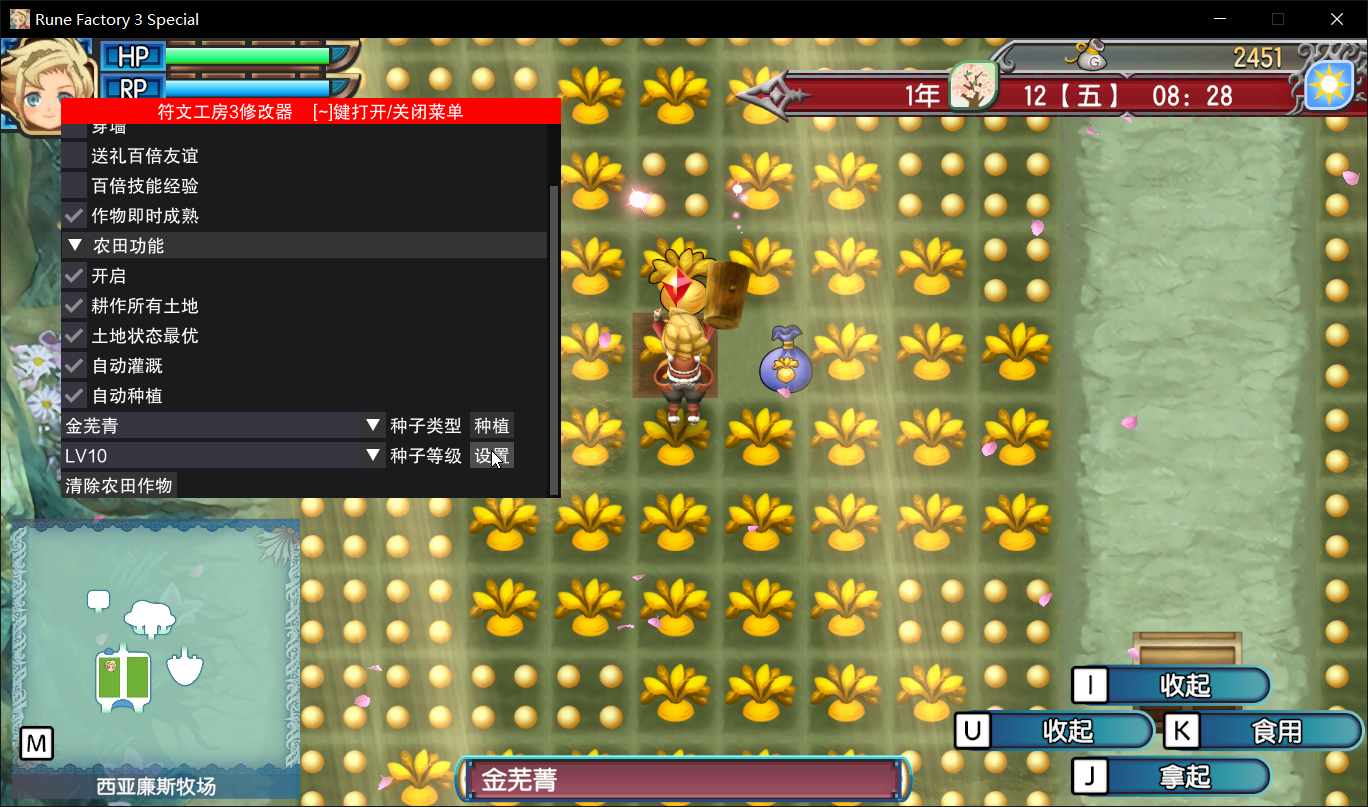
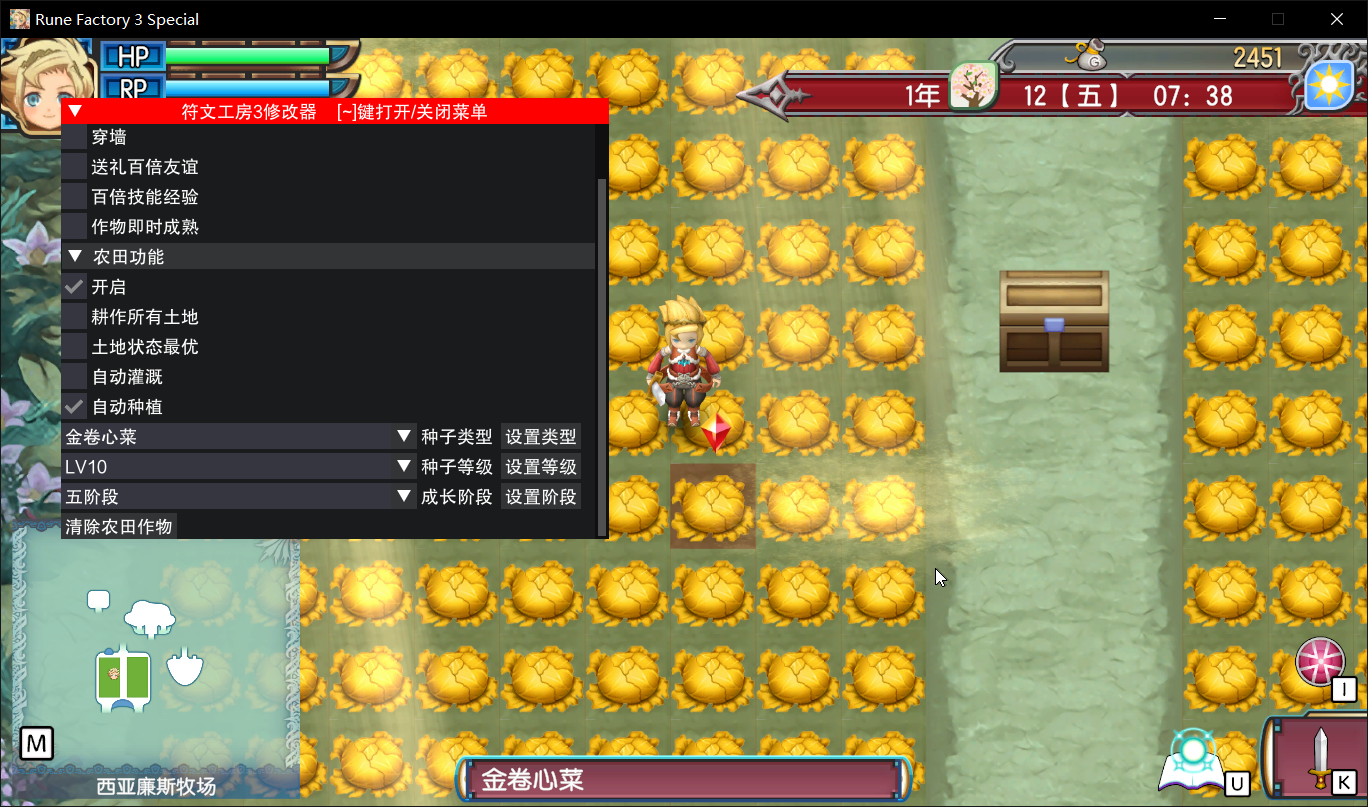
增加新功能
修改作物成长阶段

diff --git a/src/gui.rs b/src/gui.rs
@@ -2,17 +2,32 @@ use hudhook::{imgui, ImguiRenderLoop, TextureLoader};
 
 use crate::{util::is_key_down_once, var};
 
+static mut CROP_TYPE_SELECTED: var::CropType = var::CropType::无;
 static mut CROP_TYPE_LIST: Vec<var::CropType> = Vec::new();
 
-static mut CROP_TYPE_SELECTED: var::CropType = var::CropType::无;
-
+static mut CROP_LEVEL_SELECTED: var::CropLevel = var::CropLevel::LV1;
 static mut CROP_LEVEL_LIST: Vec<var::CropLevel> = Vec::new();
 
-static mut CROP_LEVEL_SELECTED: var::CropLevel = var::CropLevel::LV1;
+static mut CROP_GROWTH_STAGE_SELECTED: var::CropGrowthStage = var::CropGrowthStage::一阶段;
+static mut CROP_GROWTH_STAGE_LIST: Vec<var::CropGrowthStage> = Vec::new();
 
 static ONCE: std::sync::Once = std::sync::Once::new();
 
-pub(crate) unsafe fn draw_ui_body(ui: &hudhook::imgui::Ui) {
+pub(crate) unsafe fn on_frame(ui: &hudhook::imgui::Ui) {
+    ONCE.call_once(|| {
+        for v in <var::CropType as strum::IntoEnumIterator>::iter() {
+            CROP_TYPE_LIST.push(v)
+        }
+
+        for v in <var::CropLevel as strum::IntoEnumIterator>::iter() {
+            CROP_LEVEL_LIST.push(v)
+        }
+
+        for v in <var::CropGrowthStage as strum::IntoEnumIterator>::iter() {
+            CROP_GROWTH_STAGE_LIST.push(v)
+        }
+    });
+
     if ui.collapsing_header("功能", imgui::TreeNodeFlags::empty()) {
         if ui.checkbox(
             "钓鱼自动提竿",
@@ -142,23 +157,9 @@ pub(crate) unsafe fn draw_ui_body(ui: &hudhook::imgui::Ui) {
                 }
             }
 
-            ONCE.call_once(|| {
-                for v in <var::CropType as strum::IntoEnumIterator>::iter() {
-                    CROP_TYPE_LIST.push(v)
-                }
-
-                for v in <var::CropLevel as strum::IntoEnumIterator>::iter() {
-                    CROP_LEVEL_LIST.push(v)
-                }
-            });
-
             if var::farm::plant_plots::TOGGLE {
                 if let Some(cb) = ui.begin_combo("种子类型", CROP_TYPE_SELECTED.to_string()) {
-                    for current in ::core::mem::transmute::<
-                        *const Vec<var::CropType>,
-                        &Vec<var::CropType>,
-                    >(std::ptr::addr_of!(CROP_TYPE_LIST))
-                    {
+                    for current in &*::core::ptr::addr_of_mut!(CROP_TYPE_LIST) {
                         if CROP_TYPE_SELECTED == *current {
                             ui.set_item_default_focus();
                         }
@@ -175,17 +176,12 @@ pub(crate) unsafe fn draw_ui_body(ui: &hudhook::imgui::Ui) {
                 }
 
                 ui.same_line();
-                if ui.button("种植") {
-                    *(std::ptr::addr_of_mut!(var::farm::plant_plots::CROP_ID) as *mut i64
-                        as *mut u8) = CROP_TYPE_SELECTED as u8 * 2;
+                if ui.button("设置类型") {
+                    var::farm::plant_plots::CROP_PROP.set_crop_type(CROP_TYPE_SELECTED);
                 }
 
                 if let Some(cb) = ui.begin_combo("种子等级", CROP_LEVEL_SELECTED.to_string()) {
-                    for current in ::core::mem::transmute::<
-                        *const Vec<var::CropLevel>,
-                        &Vec<var::CropLevel>,
-                    >(std::ptr::addr_of!(CROP_LEVEL_LIST))
-                    {
+                    for current in &*::core::ptr::addr_of!(CROP_LEVEL_LIST) {
                         if CROP_LEVEL_SELECTED == *current {
                             ui.set_item_default_focus();
                         }
@@ -202,31 +198,37 @@ pub(crate) unsafe fn draw_ui_body(ui: &hudhook::imgui::Ui) {
                 }
 
                 ui.same_line();
-                if ui.button("设置") {
-                    let ptr = ::core::ptr::addr_of!(var::farm::plant_plots::CROP_ID)
-                        .byte_add(1)
-                        .cast_mut()
-                        .cast::<u8>();
+                if ui.button("设置等级") {
+                    var::farm::plant_plots::CROP_PROP.set_crop_level(CROP_LEVEL_SELECTED);
+                }
 
-                    *ptr &= 0xF0;
-                    *ptr |= CROP_LEVEL_SELECTED as u8;
+                if let Some(cb) = ui.begin_combo("成长阶段", CROP_GROWTH_STAGE_SELECTED.to_string())
+                {
+                    for current in &*::core::ptr::addr_of_mut!(CROP_GROWTH_STAGE_LIST) {
+                        if CROP_GROWTH_STAGE_SELECTED == *current {
+                            ui.set_item_default_focus();
+                        }
+
+                        if ui
+                            .selectable_config(current.to_string())
+                            .selected(CROP_GROWTH_STAGE_SELECTED == *current)
+                            .build()
+                        {
+                            CROP_GROWTH_STAGE_SELECTED = *current;
+                        }
+                    }
+                    cb.end();
+                }
+
+                ui.same_line();
+                if ui.button("设置阶段") {
+                    var::farm::plant_plots::CROP_PROP
+                        .set_crop_growth_stage(CROP_GROWTH_STAGE_SELECTED);
                 }
 
                 if ui.button("清除农田作物") {
-                    CROP_TYPE_SELECTED = var::CropType::无;
-
-                    *(std::ptr::addr_of_mut!(var::farm::plant_plots::CROP_ID) as *mut i64
-                        as *mut u8) = CROP_TYPE_SELECTED as u8;
-
-                    CROP_LEVEL_SELECTED = var::CropLevel::LV1;
-
-                    let ptr = ::core::ptr::addr_of!(var::farm::plant_plots::CROP_ID)
-                        .byte_add(1)
-                        .cast_mut()
-                        .cast::<u8>();
-
-                    *ptr &= 0xF0;
-                    *ptr |= CROP_LEVEL_SELECTED as u8;
+                    var::farm::plant_plots::CROP_PROP.set_crop_type(var::CropType::无);
+                    var::farm::plant_plots::CROP_PROP.set_crop_level(var::CropLevel::LV1);
                 }
             }
         }
@@ -272,10 +274,10 @@ impl ImguiRenderLoop for MyRenderLoop {
                 .title_bar(true)
                 .size([500.0, 400.0], hudhook::imgui::Condition::FirstUseEver)
                 .resizable(true)
-                .collapsible(false)
+                .collapsible(true)
                 .movable(true)
                 .build(|| {
-                    draw_ui_body(ui);
+                    on_frame(ui);
                 });
         }
     }

diff --git a/src/var.rs b/src/var.rs
@@ -21,6 +21,7 @@ pub(crate) mod auto_press {
     // size 25
     pub(crate) const PAT: &str = "66 F7 D2 66 23 D0";
     pub(crate) static mut HOOK: crate::hook::Hook = unsafe { ::core::mem::zeroed() };
+    pub(crate) static mut AUTO_PRESS_MARK: i64 = 0;
 }
 
 pub(crate) mod walk_through_walls {
@@ -71,9 +72,39 @@ pub(crate) mod farm {
     }
 
     pub(crate) mod plant_plots {
+
         pub(crate) static mut MARK: i64 = 0;
         pub(crate) static mut TOGGLE: bool = false;
-        pub(crate) static mut CROP_ID: i64 = 0x105A;
+        pub(crate) static mut CROP_PROP: crate::var::CropProp = crate::var::CropProp {
+            ty: 0,
+            growth_stage_lv: 0x10,
+        };
+    }
+}
+
+#[derive(Debug, Clone, Copy, Default)]
+#[repr(C)]
+pub(crate) struct CropProp {
+    ty: u8,
+    growth_stage_lv: u8,
+}
+
+impl CropProp {
+    pub(crate) fn set_crop_type(&mut self, ct: CropType) {
+        self.ty = (ct as u8) << 1;
+    }
+
+    pub(crate) unsafe fn set_crop_growth_stage(&mut self, stage: CropGrowthStage) {
+        // let stage_lv_ptr = (self as *mut CropProp as *mut u8).byte_add(1);
+        // *stage_lv_ptr &= 0b0000_1111;
+        // *stage_lv_ptr |= (stage as u8) << 4;
+        self.growth_stage_lv &= 0b0000_1111;
+        self.growth_stage_lv |= (stage as u8) << 4;
+    }
+
+    pub(crate) fn set_crop_level(&mut self, level: CropLevel) {
+        self.growth_stage_lv &= 0b0111_0000;
+        self.growth_stage_lv |= level as u8;
     }
 }
 
@@ -114,7 +145,7 @@ pub(crate) enum CropType {
 
     水晶 = 20, // 可砸，出的不知道是不是buff
 
-    苹果 = 21, //  可砸，什么都不会出
+    // 苹果 = 21, //  可砸，什么都不会出
     // 苹果 = 22    同上
     // 苹果 = 23    同上
     草莓 = 24,     // Strawberry
@@ -178,13 +209,18 @@ pub(crate) enum CropType {
     strum_macros::EnumIter,
     strum_macros::Display,
 )]
-pub(crate) enum CropGrowthStage {
-    None = 0,
-    A = 1,
-    B = 2,
-    C = 3,
-    D = 4,
-    E = 5,
+
+pub(crate) enum CropLevel {
+    LV1 = 0,
+    LV2 = 1,
+    LV3 = 2,
+    LV4 = 3,
+    LV5 = 4,
+    LV6 = 5,
+    LV7 = 6,
+    LV8 = 7,
+    LV9 = 8,
+    LV10 = 9,
 }
 
 #[derive(
@@ -199,16 +235,11 @@ pub(crate) enum CropGrowthStage {
     strum_macros::EnumIter,
     strum_macros::Display,
 )]
-
-pub(crate) enum CropLevel {
-    LV1 = 0,
-    LV2 = 1,
-    LV3 = 2,
-    LV4 = 3,
-    LV5 = 4,
-    LV6 = 5,
-    LV7 = 6,
-    LV8 = 7,
-    LV9 = 8,
-    LV10 = 9,
+pub(crate) enum CropGrowthStage {
+    // 无 = 0,
+    一阶段 = 0x1,
+    二阶段 = 0x2,
+    三阶段 = 0x3,
+    四阶段 = 0x4,
+    五阶段 = 0x5,
 }

diff --git a/src/asm.rs b/src/asm.rs
@@ -1,9 +1,8 @@
 static mut SANDLL_ADDR_POINTER: *const i64 =
     unsafe { std::ptr::addr_of!(crate::var::SANDLL_ADDR) } as *const i64;
 
-static mut AUTO_PRESS_B_MARK: i64 = 0;
 static mut AUTO_PRESS_B_MARK_POINTER: *const i64 =
-    unsafe { std::ptr::addr_of!(AUTO_PRESS_B_MARK) } as *const i64;
+    unsafe { std::ptr::addr_of!(crate::var::auto_press::AUTO_PRESS_MARK) } as *const i64;
 
 static mut SOIL_QUALITY_MARK_POINTER: *const i64 =
     unsafe { std::ptr::addr_of!(crate::var::farm::soil_quality::MARK) } as *const i64;
@@ -17,8 +16,9 @@ static mut TILTT_PLOTS_MARK_POINTER: *const i64 =
 static mut PLANT_PLOTS_MARK_POINTER: *const i64 =
     unsafe { std::ptr::addr_of!(crate::var::farm::plant_plots::MARK) } as *const i64;
 
-static mut CROP_ID_POINTER: *const i64 =
-    unsafe { std::ptr::addr_of!(crate::var::farm::plant_plots::CROP_ID) } as *const i64;
+static mut CROP_PROP_POINTER: *const crate::var::CropProp =
+    unsafe { std::ptr::addr_of!(crate::var::farm::plant_plots::CROP_PROP) }
+        as *const crate::var::CropProp;
 
 #[allow(unused)]
 #[inline(never)]
@@ -271,7 +271,7 @@ pub(crate) unsafe extern "system" fn skill_exp_mul() {
 
 #[allow(unused)]
 #[inline(never)]
-pub(crate) unsafe extern "system" fn farm_manager() {
+pub(crate) unsafe extern "system" fn farm() {
     std::arch::asm!("push rax", options(nomem, nostack));
     std::arch::asm!("push r11", options(nomem, nostack));
 
@@ -331,7 +331,7 @@ pub(crate) unsafe extern "system" fn farm_manager() {
         in("r12") WATERING_PLOTS_MARK_POINTER,
         in("r13") TILTT_PLOTS_MARK_POINTER,
         in("r14") PLANT_PLOTS_MARK_POINTER,
-        in("r15") CROP_ID_POINTER,
+        in("r15") CROP_PROP_POINTER,
         options(nostack,nomem)
     );
 

diff --git a/src/hook.rs b/src/hook.rs
@@ -70,27 +70,23 @@ impl Hook {
     }
 
     pub(crate) unsafe fn create_hook(&self) -> &Self {
-        let status = minhook_raw::create_hook(
+        minhook_raw::create_hook(
             self.target_addr,
             self.detour_fn_addr,
             ::core::ptr::null_mut(),
         );
 
-        println!("create_hook: {}", status);
-
         self
     }
 
     pub(crate) fn enable(&mut self) {
-        let status = minhook_raw::enable_hook(self.target_addr);
-        println!("enable_hook: {}", status);
+        minhook_raw::enable_hook(self.target_addr);
         self.is_enable = true;
     }
 
     pub(crate) fn disable(&mut self) {
-        let status = minhook_raw::disable_hook(self.target_addr);
+        minhook_raw::disable_hook(self.target_addr);
 
-        println!("disable_hook: {}", status);
         self.is_enable = false;
     }
 }
@@ -140,7 +136,7 @@ pub(crate) unsafe fn hooks(mod_addr: *mut ::core::ffi::c_void, mod_data: &[u8]) 
 
     crate::var::farm::HOOK = Hook::new()
         .build_target(mod_addr, mod_data, crate::var::farm::PAT, 8)
-        .build_detour(crate::asm::farm_manager as *mut ::core::ffi::c_void, 0xFF)
+        .build_detour(crate::asm::farm as *mut ::core::ffi::c_void, 0xFF)
         .create_hook()
         .to_owned();
 }

diff --git a/README.md b/README.md
@@ -8,7 +8,7 @@ https://github.com/vSylva/rune_factory_3_trainer/releases
 
 ## 使用方式
 
-将 **xinput1_4.dll** 放入游戏根目录中
+将 **xinput1_4.dll** 放入游戏根目录中，启动游戏等待游戏窗口正常化后会自动显示UI
 
 ## 编译
 
